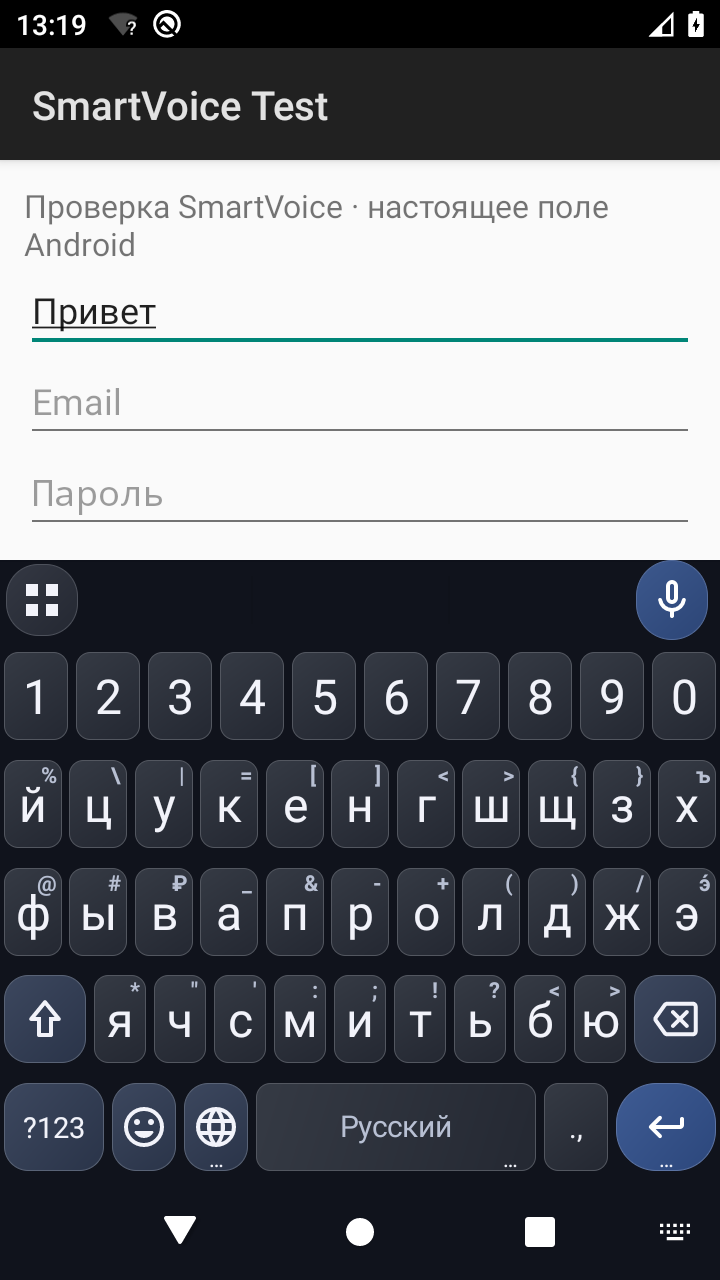
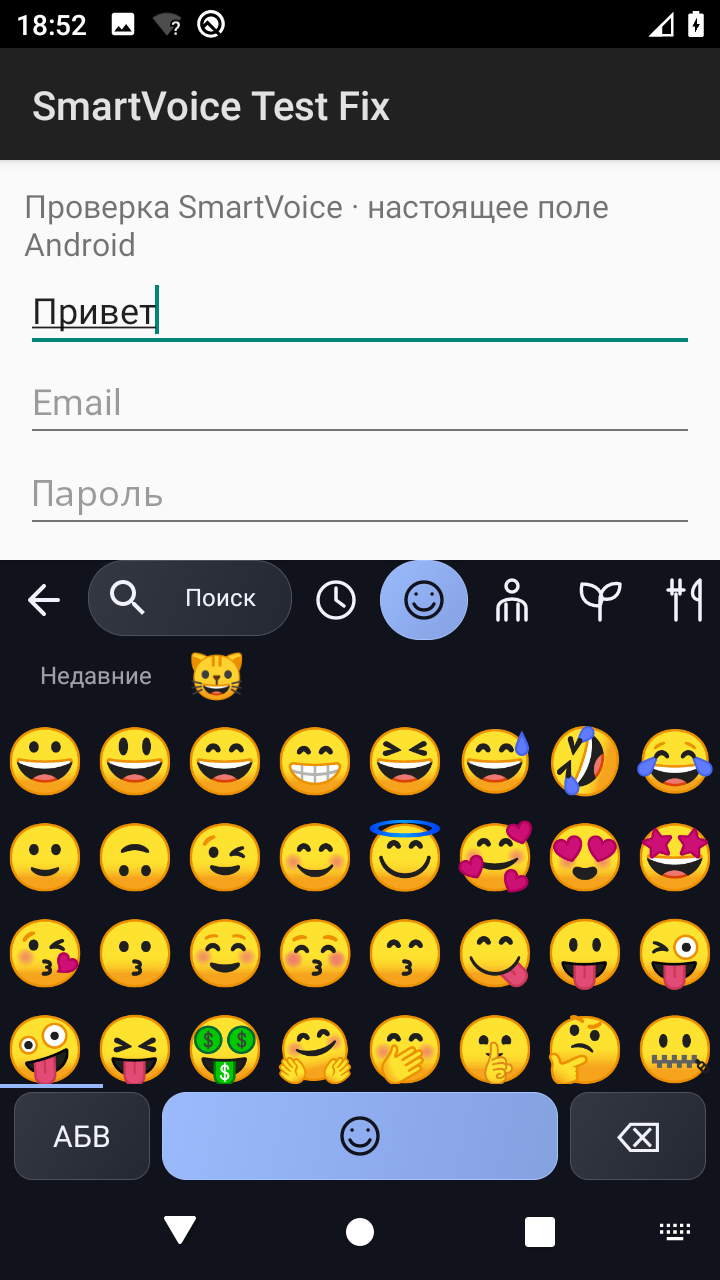
Record verified Android scenarios, real screenshots and measured limits of dictation

diff --git a/docs/validation/COMPARE.html b/docs/validation/COMPARE.html
@@ -2,8 +2,8 @@
 <style>body{margin:24px;background:#10131c;color:#f2f3fa;font:16px system-ui}h1{font-size:24px}p{color:#b8c0d3;max-width:900px}.pair{display:grid;grid-template-columns:1fr 1fr;gap:20px;margin:24px 0 56px}figure{margin:0;padding:14px;background:#292e39;border-radius:16px}img{display:block;width:100%;height:70vh;object-fit:contain;background:#0c0f17}figcaption{padding:10px 0}@media(max-width:700px){.pair{grid-template-columns:1fr}img{height:auto}}</style>
 <h1>SmartVoiceKeyboard: утверждённые образцы и настоящее приложение</h1>
 <p>Слева — неизменённые PNG владельца. Справа — снимки реально установленной preview APK в Android. Высота настоящих панелей ограничена IME; концепт-карточки имеют другое соотношение сторон. Справа — полные системные скриншоты Android (screencap), включая реальное тестовое поле ввода. Снимки не являются новыми макетами. В архиве владельца имена 02 и 04 перепутаны; здесь разделы сопоставлены по содержимому.</p>
-<h2>Клавиатура</h2><div class="pair"><figure><img src="../approved-design/approved_mockups/01_MAIN_KEYBOARD.png"><figcaption>Утверждено</figcaption></figure><figure><img src="screenshots/01_main.png"><figcaption>Android UI · preview</figcaption></figure></div>
+<h2>Клавиатура</h2><div class="pair"><figure><img src="../approved-design/approved_mockups/01_MAIN_KEYBOARD.png"><figcaption>Утверждено</figcaption></figure><figure><img src="screenshots/01_main.png"><figcaption>Android UI · SmartVoice Test Fix</figcaption></figure></div>
 <h2>Функции</h2><div class="pair"><figure><img src="../approved-design/approved_mockups/04_CLIPBOARD.png"><figcaption>Утверждено · содержимое исходного файла 04</figcaption></figure><figure><img src="screenshots/02_functions.png"><figcaption>Android UI · 3 колонки</figcaption></figure></div>
-<h2>Эмодзи</h2><div class="pair"><figure><img src="../approved-design/approved_mockups/03_EMOJI.png"><figcaption>Утверждено · без рекламы несуществующей ИИ-студии</figcaption></figure><figure><img src="screenshots/03_emoji.png"><figcaption>Android UI · Unicode</figcaption></figure></div>
+<h2>Эмодзи</h2><div class="pair"><figure><img src="../approved-design/approved_mockups/03_EMOJI.png"><figcaption>Утверждено</figcaption></figure><figure><img src="screenshots/03_emoji.png"><figcaption>Android UI · Unicode, без удалённого ASCII-раздела</figcaption></figure></div>
 <h2>Буфер</h2><div class="pair"><figure><img src="../approved-design/approved_mockups/02_FUNCTIONS.png"><figcaption>Утверждено · содержимое исходного файла 02</figcaption></figure><figure><img src="screenshots/04_clipboard.png"><figcaption>Android UI · явно тестовые локальные фрагменты и реальный снимок клавиатуры</figcaption></figure></div>
-<p>Скорость и точность ASR требуют телефона пользователя. Программный эмулятор без аппаратного ускорения не является измерителем плавности и распознавания речи.</p></html>
+<p>Скорость и точность ASR требуют телефона пользователя. Программный эмулятор без аппаратного ускорения не является измерителем плавности и распознавания речи.</p><h2>Подтверждение сценариев</h2><p>Поиск «кот» остаётся внутри IME; редактор показывает сохранённые настройки. Это дополнительные системные снимки, не новые макеты.</p><div class="pair"><figure><img src="screenshots/05_emoji_search.png"><figcaption>Русский поиск внутри клавиатуры</figcaption></figure><figure><img src="screenshots/07_editor.png"><figcaption>Редактор: реальное скрытие и порядок</figcaption></figure></div></html>

diff --git a/tools/voice-evaluation/compare-engines.py b/tools/voice-evaluation/compare-engines.py
@@ -1,0 +1,74 @@
+#!/usr/bin/env python3
+"""Compare real, common audio measurements; no model calls or transcript storage outside the input CSV."""
+import argparse
+import csv
+import re
+import statistics
+import unicodedata
+
+
+def distance(a, b):
+    row = list(range(len(b) + 1))
+    for i, token in enumerate(a, 1):
+        nxt = [i]
+        for j, other in enumerate(b, 1):
+            nxt.append(min(nxt[-1] + 1, row[j] + 1, row[j - 1] + (token != other)))
+        row = nxt
+    return row[-1]
+
+
+def normalize(text):
+    return " ".join(re.findall(r"[^\W_]+", unicodedata.normalize("NFC", text).casefold(), re.UNICODE))
+
+
+def main():
+    parser = argparse.ArgumentParser(description=__doc__)
+    parser.add_argument("csv")
+    args = parser.parse_args()
+    with open(args.csv, encoding="utf-8", newline="") as source:
+        rows = list(csv.DictReader(source))
+    measured = [r for r in rows if all(r.get(k, "").strip() for k in ("clip_id", "wav_sha256", "device", "engine", "reference", "raw", "final"))]
+    if not measured:
+        print("UNMEASURED: no real audio pairs; empty rows are not successful recognition.")
+        return
+    groups = {}
+    for r in measured:
+        key = (r["device"], r["engine"], r.get("model", ""))
+        sha = r["wav_sha256"].lower()
+        if not re.fullmatch(r"[0-9a-f]{64}", sha):
+            raise ValueError("Expected an actual SHA-256 for each WAV")
+        clip = (r["clip_id"], sha)
+        bucket = groups.setdefault(key, {})
+        if clip in bucket:
+            raise ValueError("Duplicate engine/audio measurement; use distinct IDs for repetitions")
+        bucket[clip] = r
+    common = set.intersection(*(set(g) for g in groups.values()))
+    if len(groups) < 2 or not common:
+        print("UNMEASURED COMPARISON: at least two engines and common WAV hashes are required.")
+        return
+    for clip in common:
+        if len({normalize(g[clip]["reference"]) for g in groups.values()}) != 1:
+            raise ValueError("Different references for identical audio")
+    print(f"Common audio measurements: {len(common)}; groups: {len(groups)}")
+    for key, group in sorted(groups.items()):
+        print(" / ".join(key))
+        data = [group[c] for c in sorted(common)]
+        for variant in ("raw", "final"):
+            we = wc = ce = cc = strict_edits = strict_chars = 0
+            for r in data:
+                ref, hyp = normalize(r["reference"]), normalize(r[variant])
+                we += distance(ref.split(), hyp.split()); wc += len(ref.split())
+                ce += distance(ref, hyp); cc += len(ref)
+                strict_edits += distance(r["reference"], r[variant]); strict_chars += len(r["reference"])
+            print(f"  {variant}: WER={we/max(1,wc):.2%}, CER={ce/max(1,cc):.2%}, exact-text CER={strict_edits/max(1,strict_chars):.2%}")
+        for column in ("decode_ms", "peak_pss_kb"):
+            values = [float(r[column]) for r in data if r.get(column, "").strip()]
+            if values:
+                print(f"  {column}: median={statistics.median(values):.1f}, max={max(values):.1f}, n={len(values)}")
+        factors = [float(r["decode_ms"]) / float(r["audio_ms"]) for r in data if r.get("decode_ms", "").strip() and float(r.get("audio_ms") or 0) > 0]
+        if factors:
+            print(f"  Real-time factor: median={statistics.median(factors):.3f}")
+
+
+if __name__ == "__main__":
+    main()

diff --git a/docs/validation/fixes/REPORT_RU.md b/docs/validation/fixes/REPORT_RU.md
@@ -1,37 +1,61 @@
-# Исправления тестовой SmartVoice Test · 2026-11-05
+# SmartVoice Test Fix · проверяемый тестовый выпуск · 2026-11-05
 
-Ветка `fix/android-input-history-20261105`, PR #8, основа `redesign/reference-preview-20261105` / 240cdf8. Main не изменяется. Только отдельный приватный prerelease.
+Рабочая ветка `fix/android-input-history-20261105`. По просьбе владельца продолжен [черновой PR №7](https://github.com/georg1995105-hash/SmartVoiceKeyboard/pull/7), его база `redesign/v02-foundation` сохранена. Новые коммиты линейно добавлены в существующую preview head-ветку; дублирующий PR №8 закрыт без merge. Main и стабильный выпуск не изменялись.
 
-## Исправлено
+APK: **SmartVoice Test Fix**, `ru.smartvoice.keyboard.previewfix`, версия `0.2.0-alpha5-input-fixes-test`, arm64-v8a / x86_64. Устанавливается рядом со старой `.preview` и стабильной клавиатурой. Данные старых пакетов не удаляются и не переносятся автоматически между изолированными Android-пакетами.
 
-- Поиск эмодзи больше не запускает Activity и не угадывает закрытие IME по высоте окна. Запрос, локальные буквенные клавиши и результаты находятся в том же окне InputMethodService, не отбирая InputConnection у приложения. Все входы поиска ведут сюда. Офлайн-индекс CLDR RU/EN; данные и лицензия сохранены. Unicode и текстовые смайлики разделены; текст ограничен по размеру ячейки; в недавних нет текстовых смайликов, включая старые записи.
-- Убрана добавочная «123» около пробела, включая старые сохранённые настройки и редактор нижнего ряда. Полная цифровая панель доступна в функциях.
-- Панель функций измеряется по реальной клавиатуре и пересечению с системной навигацией. Есть прокрутка, редактор, перенос/скрытие/восстановление и сброс набора. Подписи зон сокращены.
-- Сохраняемая SQLite-история содержит тексты, URL и собственные копии файлов. Приоритет image MIME исключает превращение фото в строку URI при смешанном ClipData. Текст и фото с одинаковой подписью больше не считаются одной записью. Копирование URI ограничено лимитом и вынесено с UI-потока; неудачный файл не публикуется как сохранённый. Миниатюры и меню фото контрастны. Меню у нижней границы прокручивается над навигацией.
-- Добавлено явное включение новых скриншотов в настройках буфера: ContentObserver MediaStore + разрешение Android, отметка момента включения и ID последнего снимка. Старые фото и камера не импортируются; сохраняется настоящий timestamp. Без доступа ко всей медиатеке можно явно выбрать изображение системным документ-пикером. Защищённый ввод, sensitive ClipData и инкогнито не записываются автоматически.
-- Постобработка диктовки сохраняет регистр обычных доменов, путей и технических числовых последовательностей. Существующие защиты partial/final, поколений callbacks, остановки и ограниченных повторов сохранены.
+## Исправления
 
-## Реальные Android-проверки
+- **Поиск эмодзи:** причина закрытия IME — отдельная Activity и смена InputConnection при поиске. Теперь запрос, собственные буквенные клавиши и результаты находятся в том же InputView/InputMethodService, без перехвата фокуса приложения. Геометрия оверлея привязана к фактической клавиатуре. Поиск использует локальный RU/EN CLDR-индекс; лицензия сохранена. Никакой сетевой передачи запросов.
+- **ASCII-раздел полностью исключён из интерфейса** по последнему требованию. Старый сохранённый ID переводится на Unicode-категорию, текстовые комбинации исключены из недавних. Не показаны несуществующие GIF/стикеры/ИИ-студия. Категории прокручиваются, нижняя панель содержит возврат, Unicode и удаление.
+- **Нижний ряд:** `?123`, эмодзи, язык, широкий пробел, пунктуация, Enter. Дополнительный numpad исключён даже из старых сохранённых настроек нижнего ряда и редактора. Цифровая панель остаётся самостоятельной настоящей функцией меню.
+- **Функции:** три колонки, фактическая высота IME, нижние и боковые navigation insets, прокрутка. Настройка порядка, скрытия/возврата, поддерживаемых быстрых кнопок, сохранение и восстановление стандарта работают через настоящие preferences.
+- **Буфер:** сохраняемая SQLite-история + собственные копии изображений. Image MIME имеет приоритет перед текстовым описанием; одинаковые подписи текста и фото не смешиваются. URI копируются вне UI-потока с ограничением размера, проверкой чтения/записи и настоящими миниатюрами. Ошибка копирования объясняется пользователю, без фальшивой карточки. Закрепления переживают очистку и срок хранения; удалённый последний системный клип не восстанавливается при следующем открытии.
+- **Передача изображения:** `commitContent` для поддерживаемого MIME; иначе явное системное «Поделиться» с URI/read grant. Строка `content://...` вместо картинки не вставляется. Меню карточки прокручивается в доступной высоте и контрастно на светлых фото.
+- **Новые скриншоты:** opt-in ContentObserver MediaStore, системное разрешение, watermark времени/ID при включении, только новые снимки. Старые фото не импортируются. Без доступа ко всей медиатеке предусмотрен явный выбор изображения системным документ-пикером.
+- **Диктовка:** локальный системный движок выбирается первым, если доступен; строгий офлайн-режим запрещает сетевой fallback. Сохранение форматированной пары Android, настройка форматирования, bounded callbacks/таймеры, пауза при busy, «Готово» как целая команда и локальный личный словарь. Подробности и пределы — в `VOICE_ENGINES_RU.md`.
 
-- Поиск открыт обычным нажатием; запрос «кот» набран его буквенными кнопками. Результаты и клавиши остаются в окне IME, поле приложения сохраняется.
-- Текст First_text → настоящий PNG-снимок приложения → Second_text: все три одновременно в истории. Фото закреплено обычным долгим нажатием и кнопкой закрепления.
-- После force-stop и нового запуска в настоящей Android SQLite-базе остались оба текста и закреплённое фото. Оригинальный временный URI-файл удалён очисткой; собственный файл SHA-256 на месте.
-- В редакторе обычным drag-and-drop «Буфер обмена» переставлен после «Настроек», «Тема» скрыта. После force-stop оба изменения видны в UI и сохранённых настройках. Сброс вернул все исходные девять плиток в стандартном порядке.
+## Что реально проверено
 
-Основная клавиатура: русский ввод дал три настоящих кандидата; цифровой ряд 1–0 и нижний ряд без добавочной 123 видны на системном снимке. Новый настоящий системный скриншот (KEYCODE_SYSRQ) появился в MediaStore и автоматически добавился в историю после включения функции.
+Проверки выполнены на настоящем Android 10/API 29 в программном эмуляторе, с установленной подписанной APK и системными `adb screencap`. Модели изображений/коллажи не использовались.
 
-Первый полный CI-прогон исправлений: 218 тестов, 211 успешно, 7 падений, все из прежнего списка. Устранены три падения InputTest (явная английская раскладка и изоляция состояния) и ошибка разбора списка словарей в XLinkTest. Добавлены три проверки: смешанная история/перезагрузка/закрепление, фильтр скриншотов и сохранение домена. В более поздней ревизии добавлена отдельная проверка старой настройки numpad; её итоговый прогон отслеживается в PR.
+- Русское слово введено через рабочий InputConnection и экранную клавишу; три настоящих кандидата видны. Цифры 1–0 и нижний ряд без лишней 123 присутствуют. Глобус переключает RU/EN.
+- Поиск открыт обычным нажатием, «кот» набран его локальными буквенными кнопками; исходное поле осталось «Привет». Выбранный 😺 вставился в него; IME и результаты остались открыты. Категория природы переключается, возврат и удаление доступны.
+- Текст → PNG-снимок настоящего приложения → другой текст сохраняются одновременно. Повторена последовательность с двумя текстами и дополнительными реальными изображениями. Проверены SQLite-записи и собственные файлы после перезапуска, а не только внешнее сходство карточек.
+- В AOSP Messaging поле объявило `contentMimeTypes=null`; нажатие изображения открыло настоящее системное меню передачи. Через Messaging изображение добавлено в локальный черновик, без отправки; в базе SMS нет исходящих сообщений.
+- Множественным выбором выбраны все пять тестовых элементов, включая закреплённый; подтверждение ручного удаления проверено настоящим пустым результатом SQLite. После этого заново добавлены два текста и два PNG.
+- Фото закреплено долгим нажатием/кнопкой pin. После очистки незакреплённых и force-stop осталась собственная копия закреплённого фото; удалённый текущий текст не вернулся.
+- В редакторе настоящим drag-and-drop буфер переставлен после настроек, тема скрыта. После перезапуска порядок и скрытие подтверждены экраном и XML preferences. Восстановление вернуло девять стандартных плиток, все над Android-навигацией.
+- Настоящий системный скриншот KEYCODE_SYSRQ создал новую запись MediaStore и автоматически добавился в opt-in историю в проверке предыдущей ревизии того же ScreenshotHistory. Новые разрешения Android 14–16 требуют телефона.
 
-Кандидат APK собирается повторно GitHub Actions. Снимки и отчёт обновляются после установки именно опубликованного файла; результат этой финальной проверки будет добавлен в конец отчёта.
+Четыре основные PNG и дополнительные снимки поиска/редактора находятся в `screenshots/`. `COMPARE.html` сопоставляет их с неизменёнными утверждёнными PNG. В исходном архиве имена файлов функций и буфера перепутаны; сопоставление сделано по содержимому.
 
-## Голос: подтверждение и пределы
+## Тесты и сбои
 
-Реальной записи с телефонного микрофона нет. **WER/CER не измерены; нельзя утверждать улучшение распознавания русского языка по unit-тестам.** В `tools/voice-evaluation/` сохранены 30 коротких/длинных русских фраз с паузами, числами, именами и пунктуацией, CSV до/после и скрипт WER/CER. Без парных записей он сообщает UNMEASURED. Регрессионный тест подтверждает только сохранение `example.com/CaseSensitive` постобработкой.
+Полный CI [2269a0c](https://github.com/georg1995105-hash/SmartVoiceKeyboard/actions/runs/42088276471): **230 тестов, 229 успешно, 1 падение**. Раньше было 215 / 204 / 11. Тесты не отключены. Устранены три InputTest (явный язык и восстановление состояния), две ошибки ссылок/разбора словарей и пять SuggestTest (подстановка результатов также для встроенного жестового движка).
 
-Android SpeechRecognizer отдаёт уже распознанный текст: безопасно исправить потерю/дубли при вставке, паузы, таймеры, выбор согласованных гипотез и ограниченную пунктуацию. Нельзя восстановить нераспознанные имена и слова без аудио/другого движка. Бесплатные варианты — актуальный системный сервис распознавания, загруженный русский офлайн-пакет при поддержке устройства и выбор языка ru-RU. Платные API, сторонний сервер и тяжёлые модели не добавлялись.
+Осталось `InputLogicTest.insertLetterIntoWordHangulFails`: реальная старая ошибка корейского комбинирования при вставке в середину слова — composing заменяет хвост после курсора; upstream issue 214. Русский/английский ввод этим кодом не комбинируется. Она остаётся в отчёте, CI не объявлен зелёным.
 
-## Ограничения
+Новые VoiceController/SpeechHypotheses/VoiceVocabulary: **23/23 локально**. Полный локальный прогон однажды исчерпал место для временных библиотек Robolectric; последующие ошибки TempDirectory не считались регрессиями. В CI дискового сбоя нет. В полных JVM-логах также остаются прежние предупреждения NPE фонового worker при завершении sandbox; чистый lint не заявляется.
 
-MediaStore-наблюдатель работает при живом процессе клавиатуры и выданном полном разрешении на изображения. Доступ только к выбранным фото Android 14+ не даёт обнаруживать будущие снимки. Названия/пути снимков различаются у OEM; фильтр поддерживает Screenshot/Screen capture/Скриншот/Снимки экрана. Альтернатива — выбор документа или копирование изображения. Автоматическое чтение закрытых/запрещённых Android данных невозможно.
+Сбой SmartVoice Test Fix на эмуляторе разобран по logcat: отладочный broadcast посылал onCodeInput раньше создания MainKeyboardView. Отладочный вход теперь проверяет готовность. Это исправление не маскирует прежнюю потерю фокуса в поиске: сам поиск перенесён внутрь IME отдельно. CI smoke имел ошибки оболочки/области переменных и проверял установленную IME через список только уже включённых IME. Теперь используется единый Bash-файл, полный список `ime list -a -s`, проверка настоящего текста поля и crash diagnostics. [Финальная smoke-проверка на Android 15/API 35 прошла](https://github.com/georg1995105-hash/SmartVoiceKeyboard/actions/runs/42091850367): установка, настройки, регистрация/активация IME, реальный текст в EditText и отсутствие app-crash. Она использовала debug-вариант того же исходного кода; публикуемый preview-файл отдельно установлен и проверен на API 29.
 
-Плавность и качество реального ASR требуют телефона; программный Android 10/API 29 без KVM этого не измеряет. Новые API и получатели изображений требуют дополнительных устройств. Lint ранее не был чистым; чистый lint не заявляется. Стабильный выпуск и слияние — только после проверки владельцем и явного одобрения.
+## Голос: подтверждённое и непроверенное
+
+Исследованы официальные whisper.cpp, sherpa-onnx, GigaAM и Android API. В `VOICE_ENGINES_RU.md` приведены размеры/память upstream, внешние WER, лёгкий профиль и кандидаты для Vivo 16 ГБ / устройств 4–6 ГБ. **Whisper/sherpa-модели не встроены в эту APK**, загрузчик и переключатели не имитируются. Устанавливаемый лёгкий вариант — системный on-device сервис, при наличии подходящего русского пакета.
+
+Собственных парных аудиозаписей нет: **WER/CER, задержка и нагрев не измерены**, существенное улучшение акустической точности не заявляется. Unit-тесты подтверждают защиту вставки/остановки, форматирование и приватность словаря. Полная семантическая/грамматическая реконструкция не реализована: безопасное исправление не должно придумывать имена, числа и смысл. Движок может игнорировать Android-подсказки терминов и пунктуации.
+
+Для телефона подготовлены 30 эталонов, before/after CSV, отдельная таблица движков с SHA-256 WAV и скрипты WER/CER raw/final, задержки, real-time factor и PSS. Пустые измерения выводят UNMEASURED. Платных API, внешнего сервера и автоматического сохранения полных диктовок не добавлено.
+
+## Практические ограничения
+
+MediaStore-наблюдение работает при живом процессе и полном разрешении на изображения. Selected photos Android 14+ не даёт доступа к будущим снимкам. OEM-пути могут отличаться; поддержаны Screenshot / Screen capture / Скриншот / Снимки экрана. Альтернатива — системный документ-пикер или копирование. Защищённые поля, sensitive ClipData и инкогнито автоматически не сохраняются.
+
+Обычная незакреплённая история подчиняется выбранным сроку и лимиту файлов; закрепления сохраняются до удаления. Передача фото зависит от получателя и его MIME-поддержки. Плавность, холодный запуск, Android 16/Vivo и качество настоящего ASR требуют телефона; TCG-эмулятор не является измерителем производительности.
+
+Снимок памяти процесса клавиатуры после эмодзи/буфера на API 29: PSS 101704 KiB (около 99 MiB), без отдельного ASR-процесса. Это одиночный снимок, не пиковая память и не измерение на Vivo.
+
+Стабильная версия не выпущена, merge в main не выполнялся.
+
[1 lines of base64/hex data omitted]

diff --git a/docs/validation/fixes/VOICE_ENGINES_RU.md b/docs/validation/fixes/VOICE_ENGINES_RU.md
@@ -1,0 +1,49 @@
+# Русская диктовка: исследование и фактический статус · 2026-11-05
+
+Проверочный телефон владельца: Vivo X300 Pro, Android 16, 16 ГБ ОЗУ. Нижняя целевая конфигурация — современный Android с 4–6 ГБ. Реальных записей владельца и доступа к его телефону нет. Собственные WER/CER, задержка, PSS и нагрев **не измерены**; приведённые ниже опубликованные цифры не являются результатами SmartVoice.
+
+## Сравнение вариантов
+
+| Вариант | Русская речь и ограничения | Размер / память | Android и задержка |
+|---|---|---|---|
+| Системный SpeechRecognizer, on-device | Качество и русский пакет зависят от производителя и сервиса. Доступны нейросетевое форматирование и подсказки терминов, если движок их поддерживает. | Модель обслуживает системный сервис; размер и PSS заранее неизвестны. | On-device API с Android 12, форматирование/термины с Android 13. В этой APK используется первым, если доступен. Задержка на Vivo не измерена. |
+| Whisper через whisper.cpp, multilingual tiny / base | Поддерживает русский и смешанную речь. `.en` непригодны для русского. Малые модели нельзя объявлять точнее системного движка без записей. | Официальная таблица: tiny 75 MiB / ~273 MB; base 142 MiB / ~388 MB. Это таблица upstream, **не Android PSS**. Квантование поддерживается. | Есть Android-пример; CPU-инференс зависит от SoC, потоков, длины сегмента и квантования. Псевдостриминг требует VAD/окон и защиты от повторов. |
+| Whisper multilingual small | Кандидат для более мощных устройств и смешанной речи; качество нечёткой речи здесь не измерено. | Upstream: 466 MiB / ~852 MB до квантования. Рабочая память/нагрев не следуют из размера файла. | На 4–6 ГБ не должен загружаться вместе с тяжёлой клавиатурой без измерений; на Vivo тоже нельзя обещать real-time. |
+| sherpa-onnx + GigaAM v2/v3 CTC/RNNT | Специализированные русские модели. GigaAM v3 e2e поддерживает пунктуацию и нормализацию; обычные CTC/RNNT требуют отдельного форматирования. sherpa-onnx — runtime, а не одна модель. | GigaAM: 220M–600M параметров в семействе. Фактические ONNX-файлы, вариант int8, размер APK runtime и Android PSS нужно измерить для выбранного экспорта. | Есть Android/Kotlin-примеры и русские модели в каталоге sherpa. Offline decoding с VAD нельзя выдавать за нативный streaming. Совместимость конкретного v3/e2e-экспорта необходимо проверить. |
+| sherpa-onnx + streaming T-one RU / Zipformer RU | Альтернативы для непрерывного ввода. Streaming и hotwords поддерживаются не каждой архитектурой/экспортом одинаково. | Размер и PSS выбранного пакета в этом проекте не измерены. | Требуют собственного AudioRecord, VAD/endpointing, фонового worker и испытания остановки; наличие demo не подтверждает качество клавиатуры. |
+
+В опубликованной авторами GigaAM таблице для Natural Speech WER V3 RNNT — 6,9%, столбца Whisper — 13,4%; для Disordered Speech — 19,2% и 58,6%. Это **внешнее исследование с их данными и нормализацией**, не сравнение с Android на телефоне владельца и не доказательство точности лёгкого мобильного экспорта. Эти данные дают основание испытывать GigaAM для нечёткой русской речи, а не выбирать Whisper только по известности.
+
+## Что действительно изменено в APK
+
+- При наличии системного on-device распознавателя он выбирается первым. Настройка «только офлайн» запрещает переход к обычному потенциально сетевому сервису; без неё при отсутствии русского локального пакета остаётся системный fallback.
+- Форматированная пара Android `[formatted, raw]` больше не ранжируется как две независимые гипотезы. Выключение умной пунктуации отключает и запрос форматирования движку.
+- Явный личный словарь: до 100 локальных имён/терминов/фраз, редактирование и удаление в настройках. Он выключен по умолчанию. Полные диктовки не сохраняются и автоматическое обучение на них не добавлялось.
+- На API 33+ словарь и короткий контекст предыдущих слов передаются **только** `createOnDeviceSpeechRecognizer`. В инкогнито, парольных и no-learning полях эти подсказки запрещены. Потенциально удалённый движок их не получает.
+- Локальный выбор готовой альтернативы с личным термином допускается только при надёжных confidence scores, более высокой оценке самого движка, изменении одного близкого слова и неизменных числах. При сомнении остаётся исходная гипотеза. Новые слова не генерируются.
+- Устранён повторный запуск после паузы и ошибки busy; живые промежуточные результаты продлевают watchdog активной речи; «Готово» как целая команда завершает сеанс при включённых командах. Существуют конечные сроки остановки и защита от поздних callbacks.
+
+23 теста VoiceController/SpeechHypotheses/VoiceVocabulary прошли локально. Это проверки событий, текста, ограничений и приватности, **не акустические измерения**. Произвольная грамматическая перезапись и LLM не добавлялись: без подтверждённого исходного аудио они могут исказить имена и смысл.
+
+## Лёгкий и более точный профиль
+
+Реально доступный лёгкий профиль этой APK — системный on-device движок, без дополнительной модели в процессе клавиатуры. Для 4–6 ГБ первым внешним кандидатом к испытанию остаётся multilingual Whisper base с квантованием; для мощных устройств — GigaAM v3 RNNT/e2e int8 и Whisper small с квантованием. Это **кандидаты к измерению, не установленные движки этой APK**. Загрузчик моделей и переключатели не имитируются.
+
+До включения собственного runtime обязательны: SHA-256 и лицензия конкретного экспорта, явная дополнительная загрузка, один resident model, inference вне UI и желательно в отдельном процессе, освобождение после диктовки, реакция на trim-memory, ограничение очереди аудио, резервный системный ввод. Целевые бюджеты нужно проверять на настоящем 4–6 ГБ устройстве, а не выводить из 16 ГБ Vivo. Пока замена SpeechRecognizer на собственный Whisper/sherpa **не реализована**, и существенное улучшение акустической точности не заявляется.
+
+## Воспроизводимое сравнение
+
+1. Записать один набор WAV 16 kHz mono PCM16 для 30 фраз из `voice-evaluation/results-template.csv`; добавить быстрые, нечёткие варианты, 3–8-секундные паузы, имена, числа и смешанную речь. Один раз вручную проверить эталон. Зафиксировать SHA-256 каждого WAV.
+2. Сначала сравнить старую/новую APK с одним и тем же системным движком. Это отделит ошибки вставки и постобработки от акустики. Сохранить raw ASR и final отдельно при измерении в локальном тестовом стенде.
+3. Те же файлы передать `whisper-cli` с multilingual base/small и `sherpa-onnx-offline` с конкретным GigaAM-экспортом. Android API 33+ имеет `EXTRA_AUDIO_SOURCE`, но провайдер может его не поддержать. Повторное произнесение или воспроизведение записи через динамик — менее строгая проверка и должно быть так помечено.
+4. Заполнить `engines-template.csv`: имя/версия модели, устройство, SHA WAV, raw/final, длительность файла, время decode, PSS процесса распознавателя и температуры до/после. Не складывать PSS движка и клавиатуры как если бы это один процесс. Для нагрева повторять одну нагрузку 10 минут и одинаковое охлаждение.
+5. `python3 compare-engines.py engines-template.csv` сравнит только общие действительно заполненные записи с одинаковыми SHA. Отдельно публикуются WER/CER raw/final, CER с пунктуацией, latency, real-time factor и PSS. Пустой шаблон сообщает UNMEASURED.
+
+## Первичные источники
+
+- [whisper.cpp: модели, память, квантование и Android](https://github.com/ggml-org/whisper.cpp)
+- [Модели whisper.cpp](https://github.com/ggml-org/whisper.cpp/blob/master/models/README.md)
+- [GigaAM: архитектуры и лицензия MIT](https://github.com/salute-developers/GigaAM)
+- [Опубликованная оценка GigaAM](https://github.com/salute-developers/gigaam/blob/7447938d791c4f3e643386ee22c33777004293a5/evaluation.md)
+- [Каталог sherpa-onnx](https://k2-fsa.github.io/sherpa/onnx/pretrained_models/index.html) и [Android](https://k2-fsa.github.io/sherpa/onnx/android/index.html)
+- [Android RecognizerIntent: форматирование, biasing и аудиоисточник](https://developer.android.com/reference/android/speech/RecognizerIntent)

diff --git a/docs/validation/PHONE_TEST_RU.md b/docs/validation/PHONE_TEST_RU.md
@@ -1,18 +1,19 @@
 # Проверка SmartVoice Test на телефоне
 
-Предварительная сборка: `ru.smartvoice.keyboard.preview`, имя IME — **SmartVoice Test**. Устанавливается рядом с действующей клавиатурой. Настройки и история preview отдельные. Текущую клавиатуру не удаляйте; для возврата выберите её системным переключателем. Стабильный выпуск не разрешён до проверки владельцем.
+Предварительная сборка: `ru.smartvoice.keyboard.previewfix`, имя IME — **SmartVoice Test Fix**. Устанавливается рядом с действующей клавиатурой. Настройки и история preview отдельные. Текущую клавиатуру не удаляйте; для возврата выберите её системным переключателем. Стабильный выпуск не разрешён до проверки владельцем.
 
 ## Сценарии
 
-1. Включить SmartVoice Test в настройках Android, выбрать русский и английский. Проверить первый запуск, тёмную/светлую темы, поворот, навигацию. Панель не перекрывает поле.
+1. Включить SmartVoice Test Fix в настройках Android, выбрать русский и английский. Проверить первый запуск, тёмную/светлую темы, поворот, навигацию. Панель не перекрывает поле.
 2. В заметках, мессенджере и браузере проверить буквы, `ё` удержанием `е`, 1–0, `?123`, Shift/Caps Lock, пробел, пунктуацию, Enter и удержание Backspace. Проверить однострочное, многострочное, парольное, числовое и email-поле.
 3. Глобус: один тап немедленно меняет язык; два быстрых открывают эмодзи без второго переключения позже; удержание открывает выбор языка. После первого тапа сразу печатать или сменить поле: задержанного переключения нет.
-4. Четыре точки → три колонки функций. Проверить каждую из девяти основных кнопок. Copy/Paste/Select/Undo проверить на известном тексте; поддержка зависит от приложения.
+4. Четыре квадрата → три колонки функций. Проверить каждую из девяти основных кнопок. Copy/Paste/Select/Undo проверить на известном тексте; поддержка зависит от приложения.
 5. «Изменить»: переставить плитку, скрыть/вернуть, перенести в верхнюю панель и поддерживаемую кнопку в нижнюю. Завершить и перезапустить приложение: порядок и скрытие сохраняются.
-6. Эмодзи: поиск на русском, все категории, недавние, модификатор тона, «АБВ», каомодзи при доступности, Backspace. Составной эмодзи удаляется целиком. GIF/стикеры/ИИ-студия не рекламируются: модулей нет.
-7. Буфер: скопировать текст, URL и реальное фото/скриншот из галереи. Проверить Все/Текст/Фото/Ссылки/Закреплённые, поиск, вставку, меню карточки, разворачивание текста, закрепление, множественный выбор, подтверждение удаления и очистку без закреплённых. Проверить пустую историю и перезапуск. Если поле не принимает фото, проверить системный fallback; недоступный файл не выглядит как фотография.
+6. Эмодзи: поиск на русском, все категории, недавние, модификатор тона, «АБВ» и Backspace. Отдельного ASCII-раздела быть не должно. Составной эмодзи удаляется целиком. GIF/стикеры/ИИ-студия не рекламируются: модулей нет.
+7. Буфер: скопировать текст → фото → другой текст → другое фото. Все четыре должны остаться после закрытия и перезапуска. Затем скопировать URL. Проверить Все/Текст/Фото/Ссылки/Закреплённые, поиск, вставку, меню карточки, разворачивание текста, закрепление, множественный выбор, подтверждение удаления и очистку без закреплённых. Проверить пустую историю и перезапуск. Если поле не принимает фото, проверить явную передачу изображения через системное меню «Поделиться», без вставки URI строкой; недоступный файл не выглядит как фотография.
 8. Проверить, что Android-контент с флагом чувствительности и скопированный в инкогнито текст не сохраняются. Буфер не отправляется в сеть.
-9. Диктовка: микрофон, RU/EN, пауза/продолжение, «Готово» сразу после последнего слова, отмена, отсутствие речи/сети/офлайн-модели. Ручной ввод закрывает ASR-сеанс, чтобы поздний ответ не переписал набираемый текст. Голосовая отправка по умолчанию выключена.
+9. В настройках буфера включить новые скриншоты и предоставить доступ. Сделать новый снимок: появляется только он, без старых фото. При запрете разрешения — «Выбрать снимок» через системный документ-пикер.
+10. Диктовка: микрофон, RU/EN, пауза/продолжение, «Готово» сразу после последнего слова, отмена, отсутствие речи/сети/офлайн-модели. Ручной ввод закрывает ASR-сеанс, чтобы поздний ответ не переписал набираемый текст. Голосовая отправка по умолчанию выключена.
 
 ## Измерение русской речи
 
@@ -29,3 +30,7 @@ python3 tools/voice-evaluation/score.py tools/voice-evaluation/results-template.
 ```
 
 WER/CER нормализуют регистр и пунктуацию. Пунктуацию, имена, ссылки, команды и знаки оценивайте отдельно по исходному тексту, чтобы нормализация не скрыла ошибки. «Отправь…» не должно посылать сообщение без явно включённой настройки команды отправки.
+
+11. В настройках голоса включить личный словарь, добавить имена и технические термины, перезапустить и проверить сохранение. Проверить режим «только офлайн» без русского пакета: понятный статус, без зависания и перехода к сетевому провайдеру.
+
+Для Vivo X300 Pro / Android 16 и отдельного телефона с 4–6 ГБ повторить один и тот же набор WAV. Исследование движков и точные границы выполненного — `fixes/VOICE_ENGINES_RU.md`; таблица измерений — `voice-evaluation/engines-template.csv`. Whisper/sherpa не встроены в эту APK и не рекламируются как установленные.

diff --git a/docs/validation/STATUS_RU.md b/docs/validation/STATUS_RU.md
@@ -1,3 +1,5 @@
+> Исторический отчёт первого preview. Актуальные исправления, проверки и ограничения: [fixes/REPORT_RU.md](fixes/REPORT_RU.md).
+
 # Проверка preview · 5 ноября 2026
 
 Тестовая ветка `redesign/reference-preview-20261105` основана на актуальной `redesign/v02-foundation` (46cc6f8). PR #6 не сливался. Стабильная ветка и установленная стабильная клавиатура не заменяются: preview имеет applicationId `ru.smartvoice.keyboard.preview`, название **SmartVoice Test** и собственные provider authorities.
